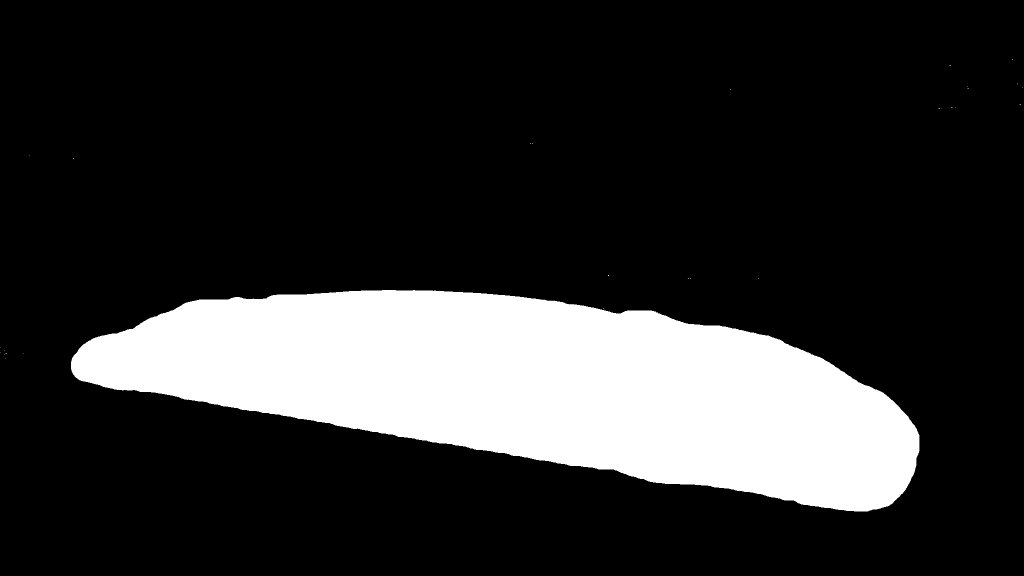
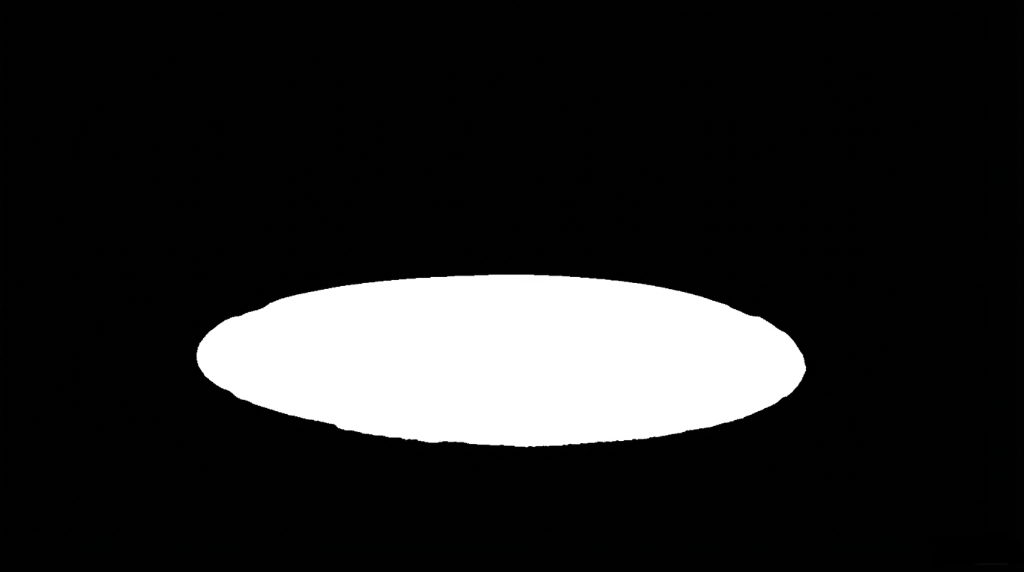
マスク画像更新、パラメータ変更(strength:0.75, steps:42, guidance:9.5)、VISIBILITY_TAG追加

diff --git a/public/static/pages/image-display.js b/public/static/pages/image-display.js
@@ -8,9 +8,9 @@
  * - スタイル: 写真風
  * - ライティング: 自然光
  * - 構図: 全体像
- * - strength: 0.52
- * - steps: 35
- * - guidance: 7.0
+ * - strength: 0.75
+ * - steps: 42
+ * - guidance: 9.5
  */
 
 // ========================================
@@ -36,11 +36,14 @@ const LIGHTING_TAG = 'natural lighting, daylight';
 // 構図（固定：全体像）
 const COMPOSITION_TAG = 'full body shot, wide angle';
 
+// 追加の固定プロンプト（人物と構造物を明確に表示）
+const VISIBILITY_TAG = 'clearly visible people and structure, not empty';
+
 // fal.aiパラメータ（固定）
 const FAL_PARAMS = {
-  strength: 0.52,
-  steps: 35,
-  guidance: 7.0
+  strength: 0.75,
+  steps: 42,
+  guidance: 9.5
 };
 
 // ネガティブプロンプト（写真風用）
@@ -70,6 +73,7 @@ function buildPrompt(freeText) {
     STYLE_TAG,
     LIGHTING_TAG,
     COMPOSITION_TAG,
+    VISIBILITY_TAG,  // 追加：人物と構造物を明確に
     '',  // 空行で区切り
     freeText  // 日本語自由文
   ];

diff --git a/src/api/generate.ts b/src/api/generate.ts
@@ -143,8 +143,8 @@ generateApi.post('/', async (c) => {
       falInput.negative_prompt = negativePrompt
     }
 
-    // fal.ai Flux Inpainting APIを呼び出し
-    const result = await fal.subscribe('fal-ai/flux/dev/inpainting', {
+    // fal.ai Flux General Inpainting APIを呼び出し
+    const result = await fal.subscribe('fal-ai/flux-general/inpainting', {
       input: falInput,
       logs: true,
       onQueueUpdate: (update) => {
